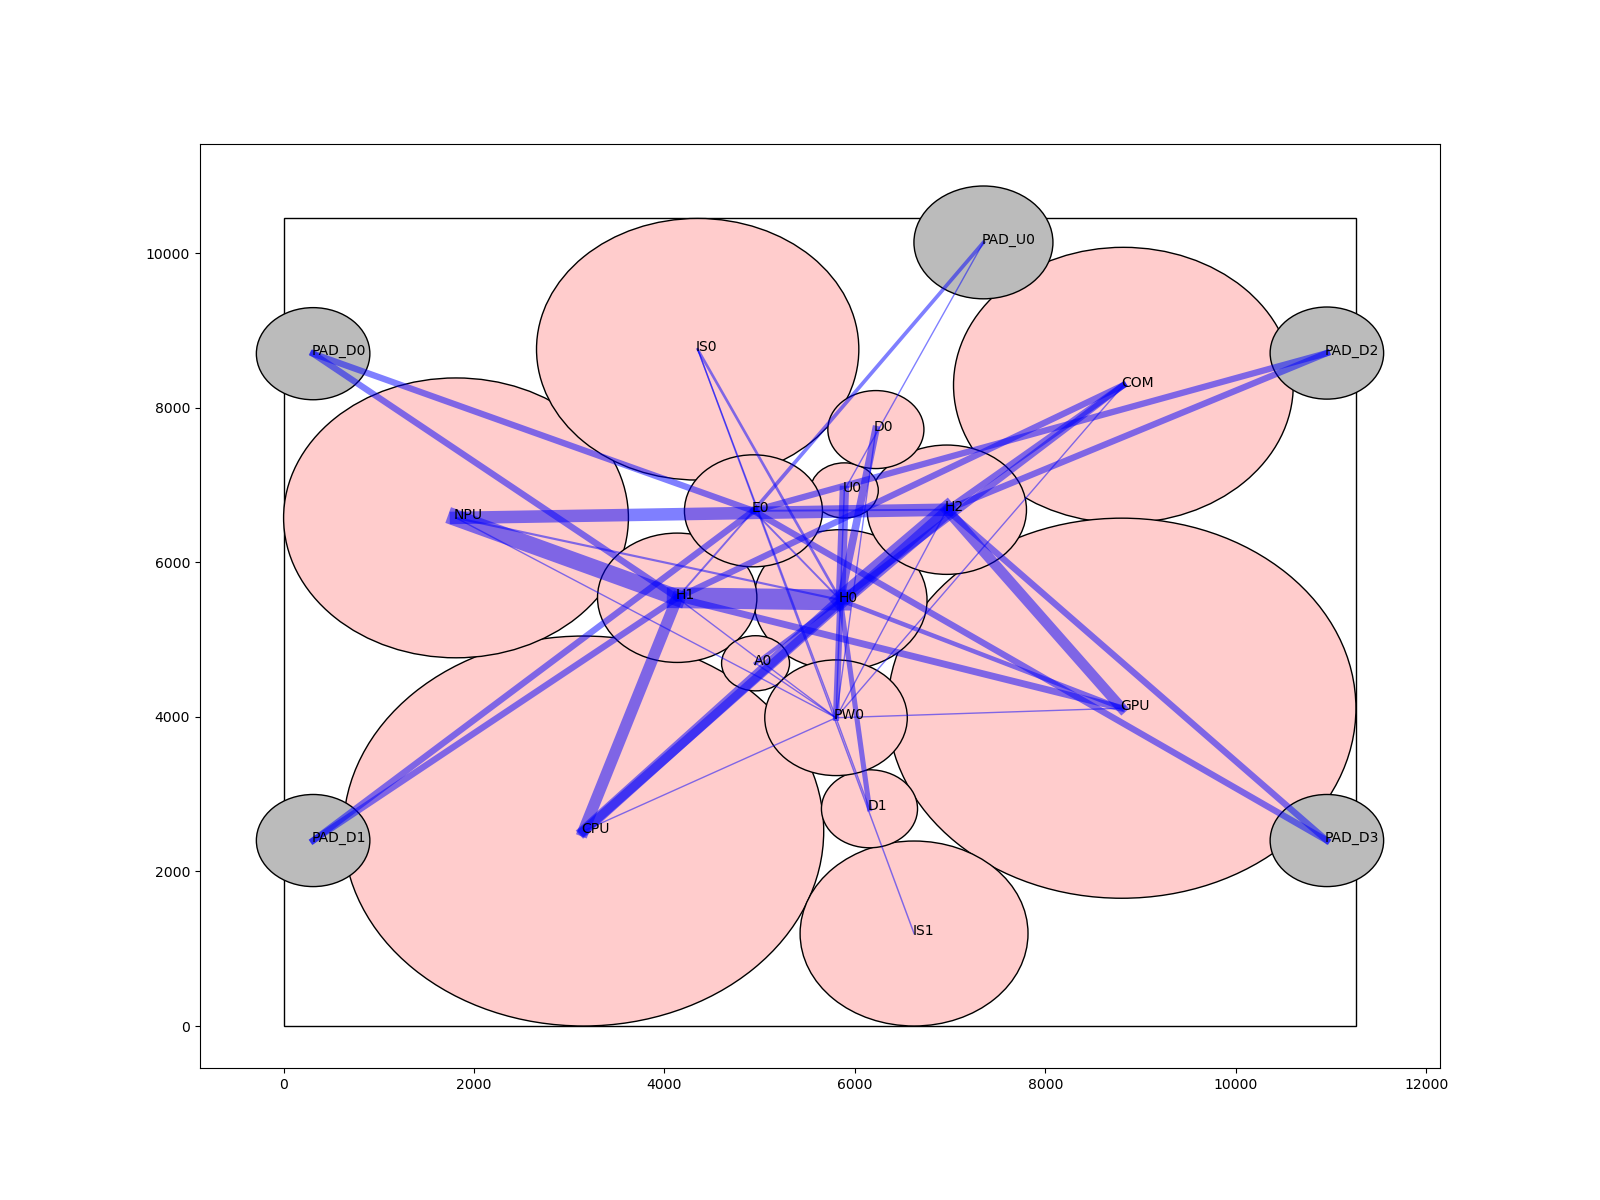
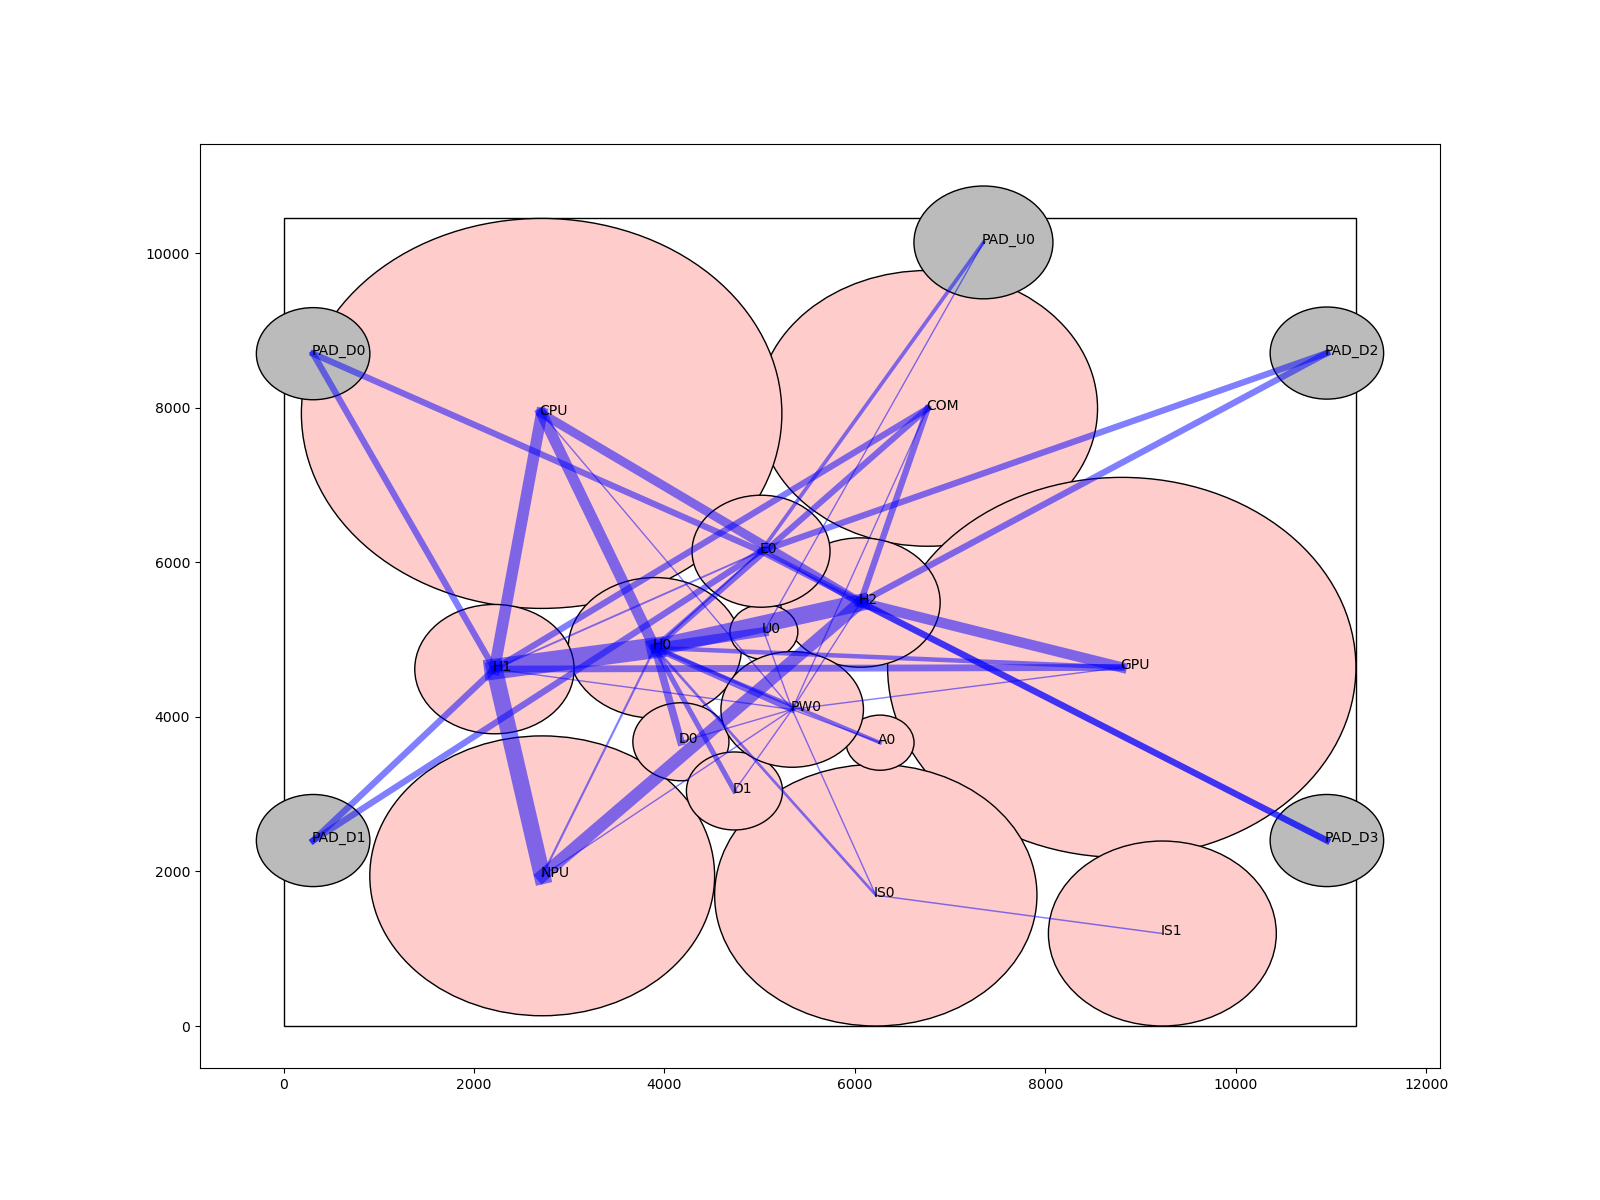
parameters modification

Changed region(s): [[0.1562, 0.185, 0.875, 0.8633]]

diff --git a/main.cpp b/main.cpp
@@ -70,7 +70,6 @@ int main(int argc, char* argv[]) {
     int iteration = ( argc >= 4 ) ? std::atoi(argv[3]) : 1000;
 
     solver.setupPushForce(10);
-    //solver.setPushForce(1e5);
     for ( int phase = 1; phase <= 50; phase++ ) {
         solver.setRadiusRatio(phase * 0.02);
         std::cout << "Setting radius ratio: " << phase * 0.02 << std::endl;
@@ -81,7 +80,6 @@ int main(int argc, char* argv[]) {
             solver.moveModule();
         }
     }
-
 
     //************************************************
     //               output result

diff --git a/ppsolver.cpp b/ppsolver.cpp
@@ -21,8 +21,8 @@ PPSolver::~PPSolver() {
 void PPSolver::setOutline(int width, int height) {
     DieWidth = (float) width;
     DieHeight = (float) height;
-    xMaxMovement = DieWidth / 3000.;
-    yMaxMovement = DieHeight / 3000.;
+    xMaxMovement = DieWidth / 4000.;
+    yMaxMovement = DieHeight / 4000.;
 }
 
 void PPSolver::setSoftModuleNum(int num) {
